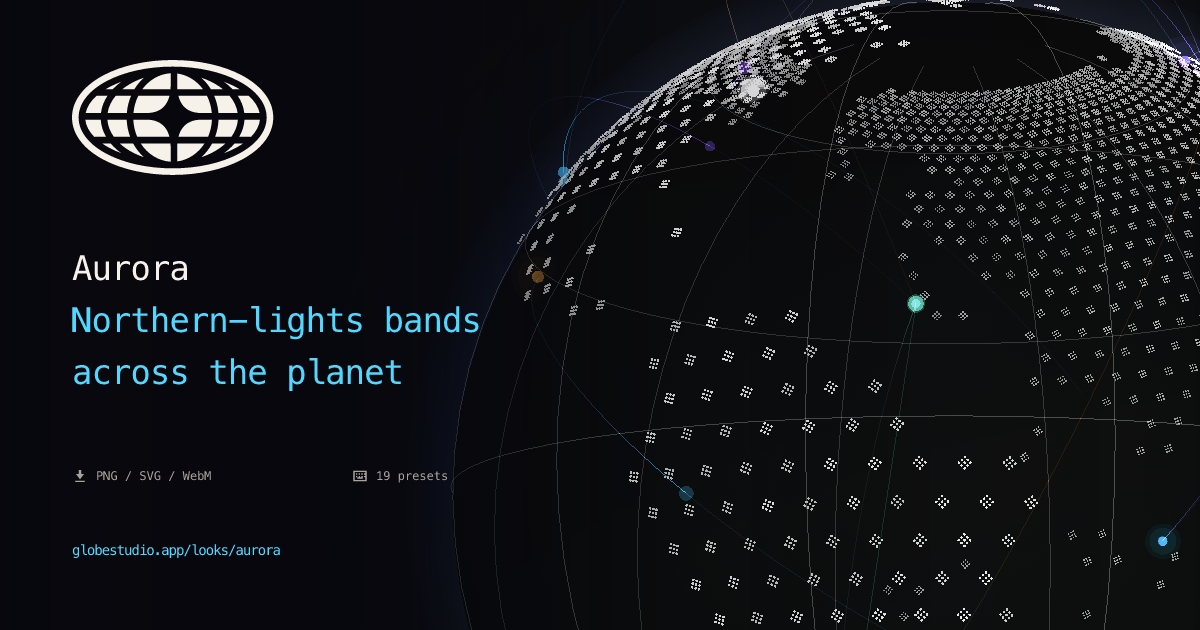
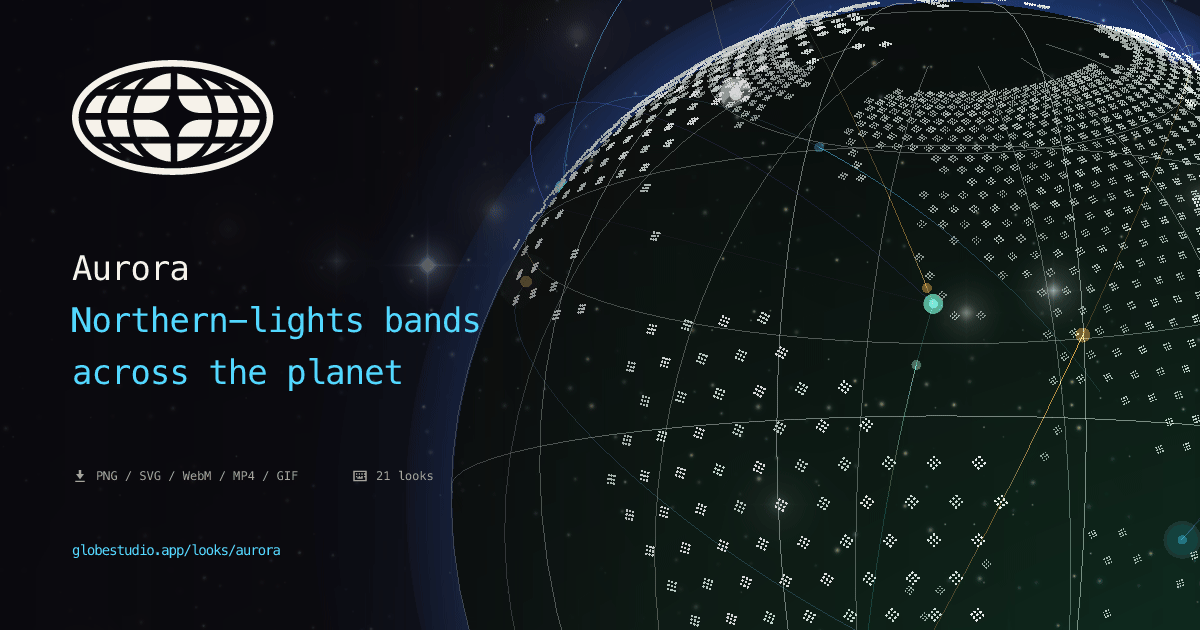
chore(og): regenerate every share card, under 300 KB, served with ?v=2
After the flip, / and every static page share og/default.png, and every
card still read "19 presets" and "PNG / SVG / WebM" (D4). This regenerates
them with the fixed generators: default.png is the product card
("Render the world.", globestudio.app) from generate-og-default.js, and
the other 20 looks are real shader captures from capture-og-canvas.js
against a VITE_TEASER=0 build. Each card was reviewed by eye.

The captures ran up to 1 MB (Pencil, Bad TV), and WhatsApp is reported to
drop og:images over about 300 KB, so each card is now an 8-bit palette PNG
under 300,000 bytes. 256 colors where that fits; Newsprint, Glitch, Pencil
and Halftone needed fewer, and Bad TV's full-frame grain only fits at 32,
which drops its faint colored arcs.

X, LinkedIn and Facebook cache cards by URL, so index.html and
prerender.js now reference the cards with ?v=2. The home alt text
describes the new card. A test checks every look's card for size and
dimensions, and the home tags for the versioned URL. The generators note
the compression and cache-buster steps for next time.

diff --git a/index.html b/index.html
@@ -79,12 +79,14 @@
          the build swaps og/default.png → og/teaser.png (teaserNoindexPlugin in
          vite.config.js), so links preview as the teaser; at launch it reverts
          to this product card automatically. Keeping default.png here also keeps
-         the JSON-LD/Twitter image consistent through the same swap. -->
-    <meta property="og:image" content="https://globestudio.app/og/default.png" />
+         the JSON-LD/Twitter image consistent through the same swap.
+         ?v=2: X, LinkedIn and Facebook cache cards by URL, so bump it (here and
+         in scripts/prerender.js) whenever the og/*.png cards are regenerated. -->
+    <meta property="og:image" content="https://globestudio.app/og/default.png?v=2" />
     <meta property="og:image:type" content="image/png" />
     <meta property="og:image:width" content="1200" />
     <meta property="og:image:height" content="630" />
-    <meta property="og:image:alt" content="Globestudio — open-source dotted maps and 3D globes for designers." />
+    <meta property="og:image:alt" content="A dotted 3D globe beside the Globestudio headline: Render the world. Halftone. Risograph. Cartography, restyled." />
 
     <!-- Twitter -->
     <meta name="twitter:card" content="summary_large_image" />
@@ -93,8 +95,8 @@
       name="twitter:description"
       content="Designer-first dotted maps and animated 3D globes. __GS_LOOK_COUNT__ looks, shader effects, and PNG, SVG, WebM, MP4, GIF, JSON or embed exports. Open source."
     />
-    <meta name="twitter:image" content="https://globestudio.app/og/default.png" />
-    <meta name="twitter:image:alt" content="Globestudio — open-source dotted maps and 3D globes for designers." />
+    <meta name="twitter:image" content="https://globestudio.app/og/default.png?v=2" />
+    <meta name="twitter:image:alt" content="A dotted 3D globe beside the Globestudio headline: Render the world. Halftone. Risograph. Cartography, restyled." />
     <meta name="twitter:creator" content="@alevizio" />
     <meta name="twitter:site" content="@alevizio" />
 
@@ -135,7 +137,7 @@
             "offers": { "@type": "Offer", "price": "0", "priceCurrency": "USD" },
             "description": "Designer-first tool for creating dotted maps and animated 3D globes. Pick any country, region, or US state. Customize dot shapes, gradients, and shader effects. Export PNG, SVG, WebM, MP4 or GIF, a JSON config, or an embed. Built with React and Three.js. Open source under MIT.",
             "url": "https://globestudio.app/",
-            "image": "https://globestudio.app/og/default.png",
+            "image": "https://globestudio.app/og/default.png?v=2",
             "softwareVersion": "1.0",
             "license": "https://opensource.org/licenses/MIT",
             "creator": { "@id": "https://globestudio.app/#publisher" },

diff --git a/scripts/prerender.js b/scripts/prerender.js
@@ -92,6 +92,10 @@ const buildHead = (html, { title, description, url, image, imageAlt }) => {
 // keeps the homepage crawlable). Reverts once VITE_TEASER=0 (1 = teaser).
 const TEASER = process.env.VITE_TEASER === "1";
 
+// Cache-buster for the og/*.png cards, matching index.html. Social platforms
+// cache a card by URL, so bump both when the cards are regenerated.
+const OG_VERSION = "?v=2";
+
 const writeRoute = (routePath, meta) => {
   let [html, misses] = buildHead(template, meta);
   if (TEASER) {
@@ -113,7 +117,7 @@ for (const preset of lookPresets) {
   const id = preset.id;
   const name = preset.name || id;
   const image = existsSync(resolve(distDir, "og", `${id}.png`))
-    ? `${SITE}/og/${id}.png`
+    ? `${SITE}/og/${id}.png${OG_VERSION}`
     : null; // fall back to the default og:image already in the template
   totalMisses += writeRoute(`looks/${id}`, {
     title: `${name} — dotted map & 3D globe look · Globestudio`,
@@ -135,7 +139,7 @@ for (const preset of lookPresets) {
 // Set explicitly (not via template fallback) so the card survives template
 // drift; in teaser mode the template already swapped in og/teaser.png
 // (teaserNoindexPlugin), so leave the fallback to keep that card.
-const productCard = TEASER ? null : `${SITE}/og/default.png`;
+const productCard = TEASER ? null : `${SITE}/og/default.png${OG_VERSION}`;
 
 for (const c of Object.values(comparisons)) {
   totalMisses += writeRoute(`compare/${c.slug}`, {

diff --git a/src/site-facts.test.js b/src/site-facts.test.js
@@ -82,3 +82,23 @@ describe.each(["public/llms.txt", "public/llms-full.txt"])("%s", (path) => {
     expect(text).toContain("npm i @globestudio/react");
   });
 });
+
+describe("share cards", () => {
+  // Width and height sit in the PNG IHDR chunk, right after the signature.
+  const dimensions = (png) => ({ width: png.readUInt32BE(16), height: png.readUInt32BE(20) });
+
+  // WhatsApp and some other unfurlers are reported to drop og:images over
+  // ~300 KB. og/default.png doubles as the Default look's card.
+  it.each(lookPresets.map((preset) => preset.id))("og/%s.png is 1200x630 and under 300 KB", (id) => {
+    const png = readFileSync(resolve(repoRoot, "public/og", `${id}.png`));
+    expect(dimensions(png)).toEqual({ width: 1200, height: 630 });
+    expect(png.length).toBeLessThan(300_000);
+  });
+
+  it("points the home card at the cache-busted URL", () => {
+    const card = "https://globestudio.app/og/default.png?v=2";
+    expect(metaContent("property", "og:image")).toBe(card);
+    expect(metaContent("name", "twitter:image")).toBe(card);
+    expect(graphNode("SoftwareApplication").image).toBe(card);
+  });
+});

diff --git a/scripts/capture-og-canvas.js b/scripts/capture-og-canvas.js
@@ -17,6 +17,11 @@
 //
 // Or to regenerate just one preset:
 //   node scripts/capture-og-canvas.js halftone
+//
+// Afterwards, compress each card under 300 KB (src/site-facts.test.js checks)
+// and bump the ?v= cache-buster in index.html and scripts/prerender.js. The
+// cards in the repo went through ffmpeg's palettegen + paletteuse to an 8-bit
+// palette: 256 colors where that fits, fewer only for the noisiest looks.
 
 import { chromium } from "playwright";
 import { writeFileSync, existsSync, mkdirSync, readFileSync } from "node:fs";

diff --git a/scripts/generate-og-default.js b/scripts/generate-og-default.js
@@ -17,6 +17,11 @@
 //
 // Run:
 //   node scripts/generate-og-default.js
+//
+// Afterwards, compress each card under 300 KB (src/site-facts.test.js checks)
+// and bump the ?v= cache-buster in index.html and scripts/prerender.js. The
+// cards in the repo went through ffmpeg's palettegen + paletteuse to an 8-bit
+// palette: 256 colors where that fits, fewer only for the noisiest looks.
 
 import { writeFileSync, existsSync, mkdirSync, readFileSync } from "node:fs";
 import { fileURLToPath } from "node:url";
